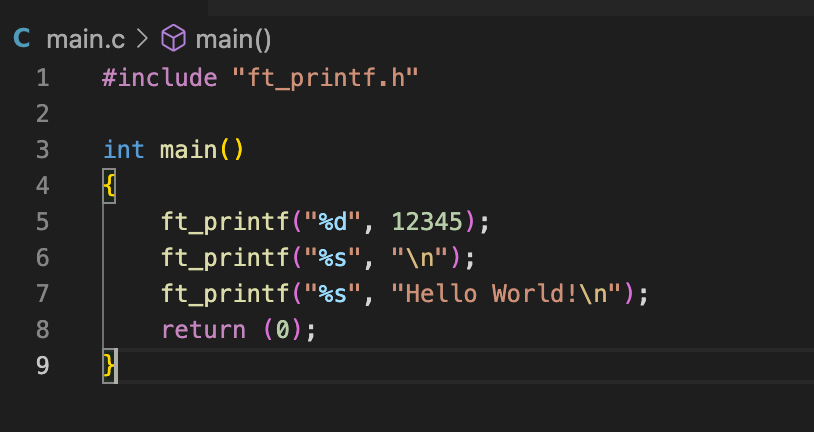
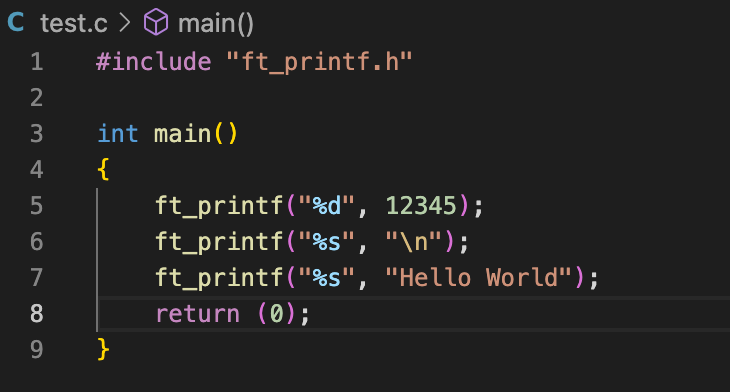
V2.4

diff --git a/test.c b/test.c
@@ -1,0 +1,9 @@
+#include "ft_printf.h"
+
+int main()
+{
+	ft_printf("%d", 12345);
+	ft_printf("%s", "\n");
+	ft_printf("%s", "Hello World");
+	return (0);
+}
